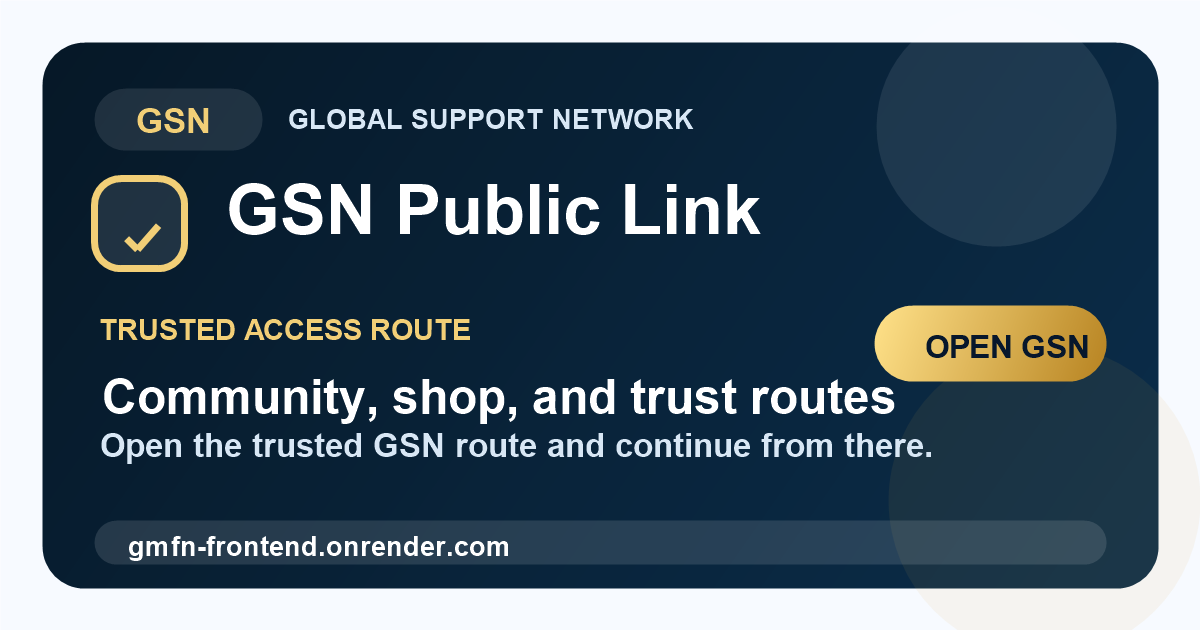
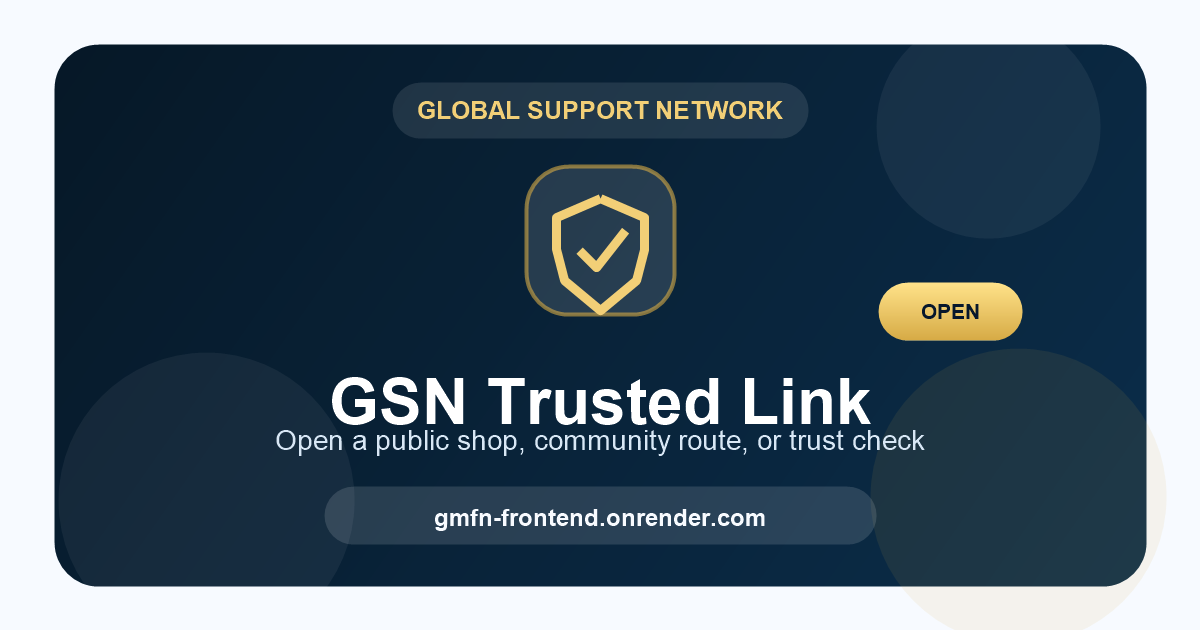
Polish public shop social sharing

Changed region(s): [[0.0308, 0.0603, 0.9867, 0.9349]]

diff --git a/frontend/src/lib/share.ts b/frontend/src/lib/share.ts
@@ -10,6 +10,7 @@ export type ShareTarget = {
   title: string;           // short label shown to user
   url: string;             // absolute URL preferred
   message?: string;        // optional extra message
+  socialMessage?: string;  // shorter caption for public social apps
 };
 
 export type SocialSharePlatform =
@@ -40,6 +41,92 @@ export function buildShareText(target: ShareTarget): string {
   return `${title}\n${url}`;
 }
 
+function compactText(value: unknown): string {
+  return String(value ?? "").replace(/\s+/g, " ").trim();
+}
+
+function trimAtWord(value: string, maxLength: number): string {
+  const text = compactText(value);
+  if (text.length <= maxLength) return text;
+
+  const sliced = text.slice(0, Math.max(0, maxLength - 3)).trimEnd();
+  const wordBoundary = sliced.lastIndexOf(" ");
+  const candidate = wordBoundary > 48 ? sliced.slice(0, wordBoundary) : sliced;
+  return `${candidate.trimEnd()}...`;
+}
+
+function stripUrls(value: string): string {
+  return value.replace(/https?:\/\/\S+/gi, "").replace(/\s+/g, " ").trim();
+}
+
+function paperLineValue(line: string): string {
+  return line.replace(/^[^:]{1,42}:\s*/, "").trim();
+}
+
+function compactPaperMessage(value: string): string {
+  const lines = value
+    .split(/\r?\n/)
+    .map((line) => line.trim())
+    .filter(Boolean)
+    .filter(
+      (line) =>
+        !/^GLOBAL SUPPORT NETWORK/i.test(line) &&
+        !/^Official GSN headed paper/i.test(line) &&
+        !/^Generated \(UTC\):/i.test(line) &&
+        !/^Reference:/i.test(line) &&
+        !/^GSN record context/i.test(line) &&
+        !/^Record details/i.test(line) &&
+        !/^Verification \/ action link:/i.test(line) &&
+        !/^Privacy:/i.test(line) &&
+        !/^Limitation:/i.test(line) &&
+        !/^Footer:/i.test(line)
+    );
+
+  const itemLine = lines.find((line) => /^Item \/ update:/i.test(line));
+  const blockLine = lines.find((line) => /^Public block:/i.test(line));
+  const shopLine = lines.find((line) => /^Shop:/i.test(line));
+  const purposeLine = lines.find((line) => /^Purpose:/i.test(line));
+
+  const pieces = [
+    itemLine ? paperLineValue(itemLine) : "",
+    blockLine ? paperLineValue(blockLine) : "",
+    shopLine ? `from ${paperLineValue(shopLine)}` : "",
+  ].filter(Boolean);
+
+  if (pieces.length) return compactText(pieces.join(" "));
+  return compactText(purposeLine ? paperLineValue(purposeLine) : "Open this trusted GSN link.");
+}
+
+function socialMessageForTarget(target: ShareTarget): string {
+  const direct = compactText(target.socialMessage);
+  if (direct) return stripUrls(direct);
+
+  const raw = String(target.message || "").trim();
+  if (!raw) return "";
+
+  if (/GLOBAL SUPPORT NETWORK|Official GSN headed paper/i.test(raw)) {
+    return compactPaperMessage(raw);
+  }
+
+  return stripUrls(raw);
+}
+
+function buildCompactSocialShareText(
+  target: ShareTarget,
+  handle: string,
+  platform: SocialSharePlatform,
+  includeUrl: boolean
+): string {
+  const cleanHandle = normalizeSocialHandle(handle);
+  const tag = cleanHandle && platform !== "facebook" ? `@${cleanHandle}` : "";
+  const title = trimAtWord(String(target.title || "GSN").trim(), 82);
+  const url = normalizeUrl(target.url);
+  const message = trimAtWord(socialMessageForTarget(target), 148);
+  const lines = [tag, title, message, includeUrl ? url : ""].filter(Boolean);
+  const limit = platform === "x" ? (includeUrl ? 260 : 210) : 520;
+  return trimAtWord(lines.join("\n"), limit);
+}
+
 export function normalizeSocialHandle(value: unknown): string {
   const raw = String(value ?? "").trim();
   if (!raw) return "";
@@ -59,14 +146,22 @@ export function buildSocialShareText(
   handle = "",
   platform: SocialSharePlatform = "copy"
 ): string {
+  if (platform !== "copy") {
+    return buildCompactSocialShareText(target, handle, platform, true);
+  }
+
   const cleanHandle = normalizeSocialHandle(handle);
-  const tag = cleanHandle && platform !== "facebook" ? `@${cleanHandle}\n` : "";
+  const tag = cleanHandle ? `@${cleanHandle}\n` : "";
   return `${tag}${buildShareText(target)}`.trim();
 }
 
 export function buildXIntentShareUrl(target: ShareTarget, handle = ""): string {
-  const text = buildSocialShareText(target, handle, "x");
-  return `https://twitter.com/intent/tweet?text=${encodeURIComponent(text)}`;
+  const text = buildCompactSocialShareText(target, handle, "x", false);
+  const url = normalizeUrl(target.url);
+  const params = new URLSearchParams();
+  if (text) params.set("text", text);
+  if (url) params.set("url", url);
+  return `https://twitter.com/intent/tweet?${params.toString()}`;
 }
 
 export function buildFacebookShareUrl(target: ShareTarget): string {

diff --git a/frontend/src/pages/ShopGalleryPage.tsx b/frontend/src/pages/ShopGalleryPage.tsx
@@ -2419,11 +2419,20 @@ export default function ShopGalleryPage() {
       effectiveShop?.ownerName,
       "this public shop"
     );
-    const message = `${blockLabel}\n${text}\n${product.priceText}\nFrom ${shopContext}.\nOpen this public shop block directly.`;
+    const priceText = firstMeaningful(product.priceText);
+    const message = `${blockLabel}\n${text}\n${priceText}\nFrom ${shopContext}.\nOpen this public shop block directly.`;
+    const socialMessage = [
+      `${productTitle} in ${shopContext}.`,
+      priceText ? `Price: ${priceText}.` : "",
+      `Open ${blockLabel} on GSN.`,
+    ]
+      .filter(Boolean)
+      .join(" ");
 
     return {
       title,
       message: buildPublicShopPackage(productUrl, [message]),
+      socialMessage,
       url: productUrl,
     };
   }
@@ -3082,6 +3091,11 @@ export default function ShopGalleryPage() {
                 message: buildPublicShopPackage(absoluteShopShareLink, [
                   "Trusted marketplace. Real people. Real value.",
                 ]),
+                socialMessage: `${firstMeaningful(
+                  effectiveShop?.shopName,
+                  effectiveShop?.ownerName,
+                  "GSN public shop"
+                )} on GSN. Trusted public shop. Open the shop link.`,
                 url: absoluteShopShareLink,
               }}
               disabled={shopLoadFailed || !absoluteShopShareLink}

diff --git a/frontend/src/components/SocialTagShareButton.tsx b/frontend/src/components/SocialTagShareButton.tsx
@@ -111,6 +111,7 @@ export default function SocialTagShareButton({
     () => ({
       title: String(target.title || "GSN").trim(),
       message: String(target.message || "").trim(),
+      socialMessage: String(target.socialMessage || "").trim(),
       url: normalizeUrl(target.url),
     }),
     [target]
@@ -201,16 +202,21 @@ export default function SocialTagShareButton({
     );
   }
 
-  function openLinkedIn() {
+  async function openLinkedIn() {
     if (!canShare) {
       report("error", "Share link is not ready yet.");
       return;
     }
     const opened = openExternal(buildLinkedInShareUrl(cleanTarget));
+    const copied = opened
+      ? await copyToClipboard(buildSocialShareText(cleanTarget, shareName, "linkedin"))
+      : false;
     report(
       opened ? "success" : "error",
       opened
-        ? "LinkedIn share opened. Add any mention there before posting."
+        ? copied
+          ? "LinkedIn share opened. Short caption copied; paste it before posting."
+          : "LinkedIn share opened. Add a short note there before posting."
         : "LinkedIn could not open. Copy the text instead."
     );
   }
@@ -315,7 +321,9 @@ export default function SocialTagShareButton({
               </SecondaryButton>
               <SecondaryButton
                 type="button"
-                onClick={openLinkedIn}
+                onClick={() => {
+                  void openLinkedIn();
+                }}
                 stableHeight={46}
                 debugId="social-tag-share.linkedin"
                 style={shareButtonStyle}

diff --git a/frontend/index.html b/frontend/index.html
@@ -14,14 +14,14 @@
     <title>GSN</title>
     <meta
       name="description"
-      content="Open a trusted GSN public link for community access, shop viewing, or trust-supported action."
+      content="Open a trusted GSN link for a public shop, community access, or trust-supported action."
     />
     <meta property="og:type" content="website" />
     <meta property="og:site_name" content="Global Support Network" />
-    <meta property="og:title" content="GSN Public Link" />
+    <meta property="og:title" content="GSN Trusted Link" />
     <meta
       property="og:description"
-      content="Open a trusted GSN public link for community access, shop viewing, or trust-supported action."
+      content="Open a trusted GSN link for a public shop, community access, or trust-supported action."
     />
     <meta
       property="og:image"
@@ -31,10 +31,10 @@
     <meta property="og:image:width" content="1200" />
     <meta property="og:image:height" content="630" />
     <meta name="twitter:card" content="summary_large_image" />
-    <meta name="twitter:title" content="GSN Public Link" />
+    <meta name="twitter:title" content="GSN Trusted Link" />
     <meta
       name="twitter:description"
-      content="Open a trusted GSN public link for community access, shop viewing, or trust-supported action."
+      content="Open a trusted GSN link for a public shop, community access, or trust-supported action."
     />
     <meta
       name="twitter:image"

diff --git a/docs/HANDOFF_NOTES.md b/docs/HANDOFF_NOTES.md
@@ -1,3 +1,61 @@
+### Public shop/social sharing polish fixed locally (2026-06-13)
+
+- Trigger:
+  - product owner shared phone screenshots showing bad public-shop sharing:
+    Facebook cropped the preview poster, X received a huge headed-paper package
+    and showed a negative character count, and LinkedIn showed a raw long URL.
+- Changed locally, not pushed:
+  - `frontend/src/lib/share.ts`
+    - added `socialMessage` to share targets;
+    - kept full headed-paper packages for ordinary copy/WhatsApp-style use;
+    - added compact social-caption generation for X, LinkedIn, Instagram,
+      TikTok, and other social chooser paths;
+    - changed X intent links to pass the URL separately from the short text so
+      the compose box is not flooded by the long URL/package body.
+  - `frontend/src/components/SocialTagShareButton.tsx`
+    - preserves the short social caption on normalized targets;
+    - LinkedIn now opens the share URL and copies the short caption so the user
+      can paste a clean note before posting.
+  - `frontend/src/pages/ShopGalleryPage.tsx`
+    - public shop share and owner product-block share now provide short social
+      captions while keeping the formal GSN shop package for copy.
+  - `frontend/server.mjs`
+    - public-shop Open Graph metadata now keeps a shop-shaped fallback when the
+      public API lookup fails or times out;
+    - product share metadata now respects the `block` query when building the
+      hash and preview-card URL.
+  - `frontend/index.html`
+    - static fallback metadata now says `GSN Trusted Link` with public shop,
+      community, and trust-check wording.
+  - `frontend/public/gsn-share-poster.svg`
+  - `frontend/public/gsn-share-poster.png`
+    - replaced the generic poster with a center-safe layout so phone/social
+      crops do not cut the main title, subtitle, or domain.
+  - `frontend/tools/audit-share-tag-actions.mjs`
+    - added guards for short social captions and X separate URL handling.
+  - `frontend/tools/audit-link-contracts.mjs`
+    - updated the static fallback metadata guard and added a server fallback
+      metadata guard.
+- Verification:
+  - `npm run audit:share-tag-actions` passed;
+  - `npm run audit:link-contracts` passed;
+  - `npm run audit:community-shop-actions` passed;
+  - `npm run audit:shop-gallery-button-inventory` passed;
+  - `npm exec -- eslint src\lib\share.ts src\components\SocialTagShareButton.tsx src\pages\ShopGalleryPage.tsx tools\audit-share-tag-actions.mjs tools\audit-link-contracts.mjs`
+    passed;
+  - `npm exec -- tsc -b --pretty false` passed;
+  - `npm run audit:protected-button-freeze` passed;
+  - `npm run audit:button-stability` passed;
+  - `npm run build` passed.
+- Devil's advocate / remaining truth:
+  - this fixes the source message generation and fallback preview asset;
+  - it does not force Facebook, X, or LinkedIn to immediately clear cached
+    previews for URLs they already scraped;
+  - final proof still needs a deployed version and a fresh phone share test;
+  - branch remains ahead of `origin/main`; the repayment slice and this sharing
+    polish are local unpublished work until the owner approves a controlled
+    push/deploy.
+
 ### Controlled push and frontend Render deploy completed (2026-06-13)
 
 - Trigger: